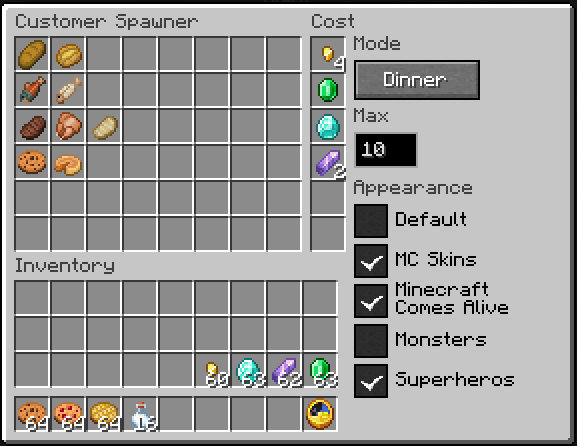
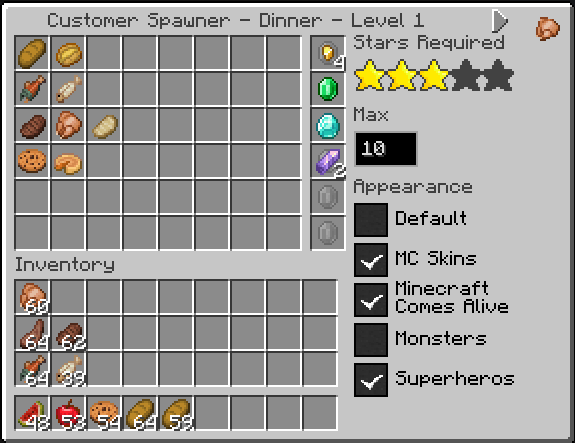
Levels and Leaderboards documentation

Changed region(s): [[0.0, 0.0, 1.0, 1.0], [0.7096, 0.2935, 0.7391, 0.3815], [0.0591, 0.3815, 0.0887, 0.4108]]

diff --git a/README.md b/README.md
@@ -592,13 +592,51 @@ end, and a heads up view of what all active customers want for that shift.
 
 At the end of a shift where at least one player or Automated system crafted or served an
 item, you and the other players will get a scoreboard showing how well you did. Automated
-activity appears with redstone as its profile image:
-
-When a Customer Leaderboard is within the configured distance, it saves each participating
-player's best completed shift percentage for that Customer Spawner, mode, and level.
-Completed levels are marked with a checkmark on the Customer Leaderboard.
+activity appears with redstone as its profile image. Along with the number of stars earned
+for that shift, the scoreboard shows a green checkmark when you earned enough stars to pass
+the current level:
 
 ![scoreboard.png](screenshots/scoreboard.png)
+
+### Levels and Leaderboards
+
+Customer Spawner Blocks support a progression of levels, with each level configured in the
+Customer Spawner UI. Each level has a required number of stars, and the Customer Leaderboard
+stores players' previous shift scores to determine which level a spawner should use.
+
+#### Configuring Levels
+
+You can configure up to eight levels in the Customer Spawner UI. Each level has its own
+inventory of items customers want to buy, maximum number of customers, enabled appearances,
+and number of stars required to pass the level.
+
+![level1.png](screenshots/level1.png)
+
+![level2.png](screenshots/level2.png)
+
+![level3.png](screenshots/level3.png)
+
+Use earlier levels for simpler shifts with fewer item options, easier items to craft, and
+fewer customers. Later levels can increase the variety and complexity of requested items
+and raise the maximum number of customers. When a shift starts, the Customer Spawner reviews
+all players in the area against the closest Customer Leaderboard and their saved scores. It
+finds the lowest level those players should be on and uses that level for the shift.
+
+#### Leaderboards
+
+The Customer Leaderboard stores each Customer Spawner shift score by spawner, mode, level,
+and player. Place a Customer Leaderboard in your build so players can see how they and others
+are doing. It shows the stars each player earned for a level and a green checkmark when that
+player has passed the level.
+
+![leaderboard-block.png](screenshots/leaderboard-block.png)
+
+![leaderboard.png](screenshots/leaderboard.png)
+
+Craft a Customer Leaderboard with stripped logs around an iron ingot, paper, emerald, and
+ink sac.
+
+![leaderboard-crafting.png](screenshots/leaderboard-crafting.png)
 
 ## Automation
 
